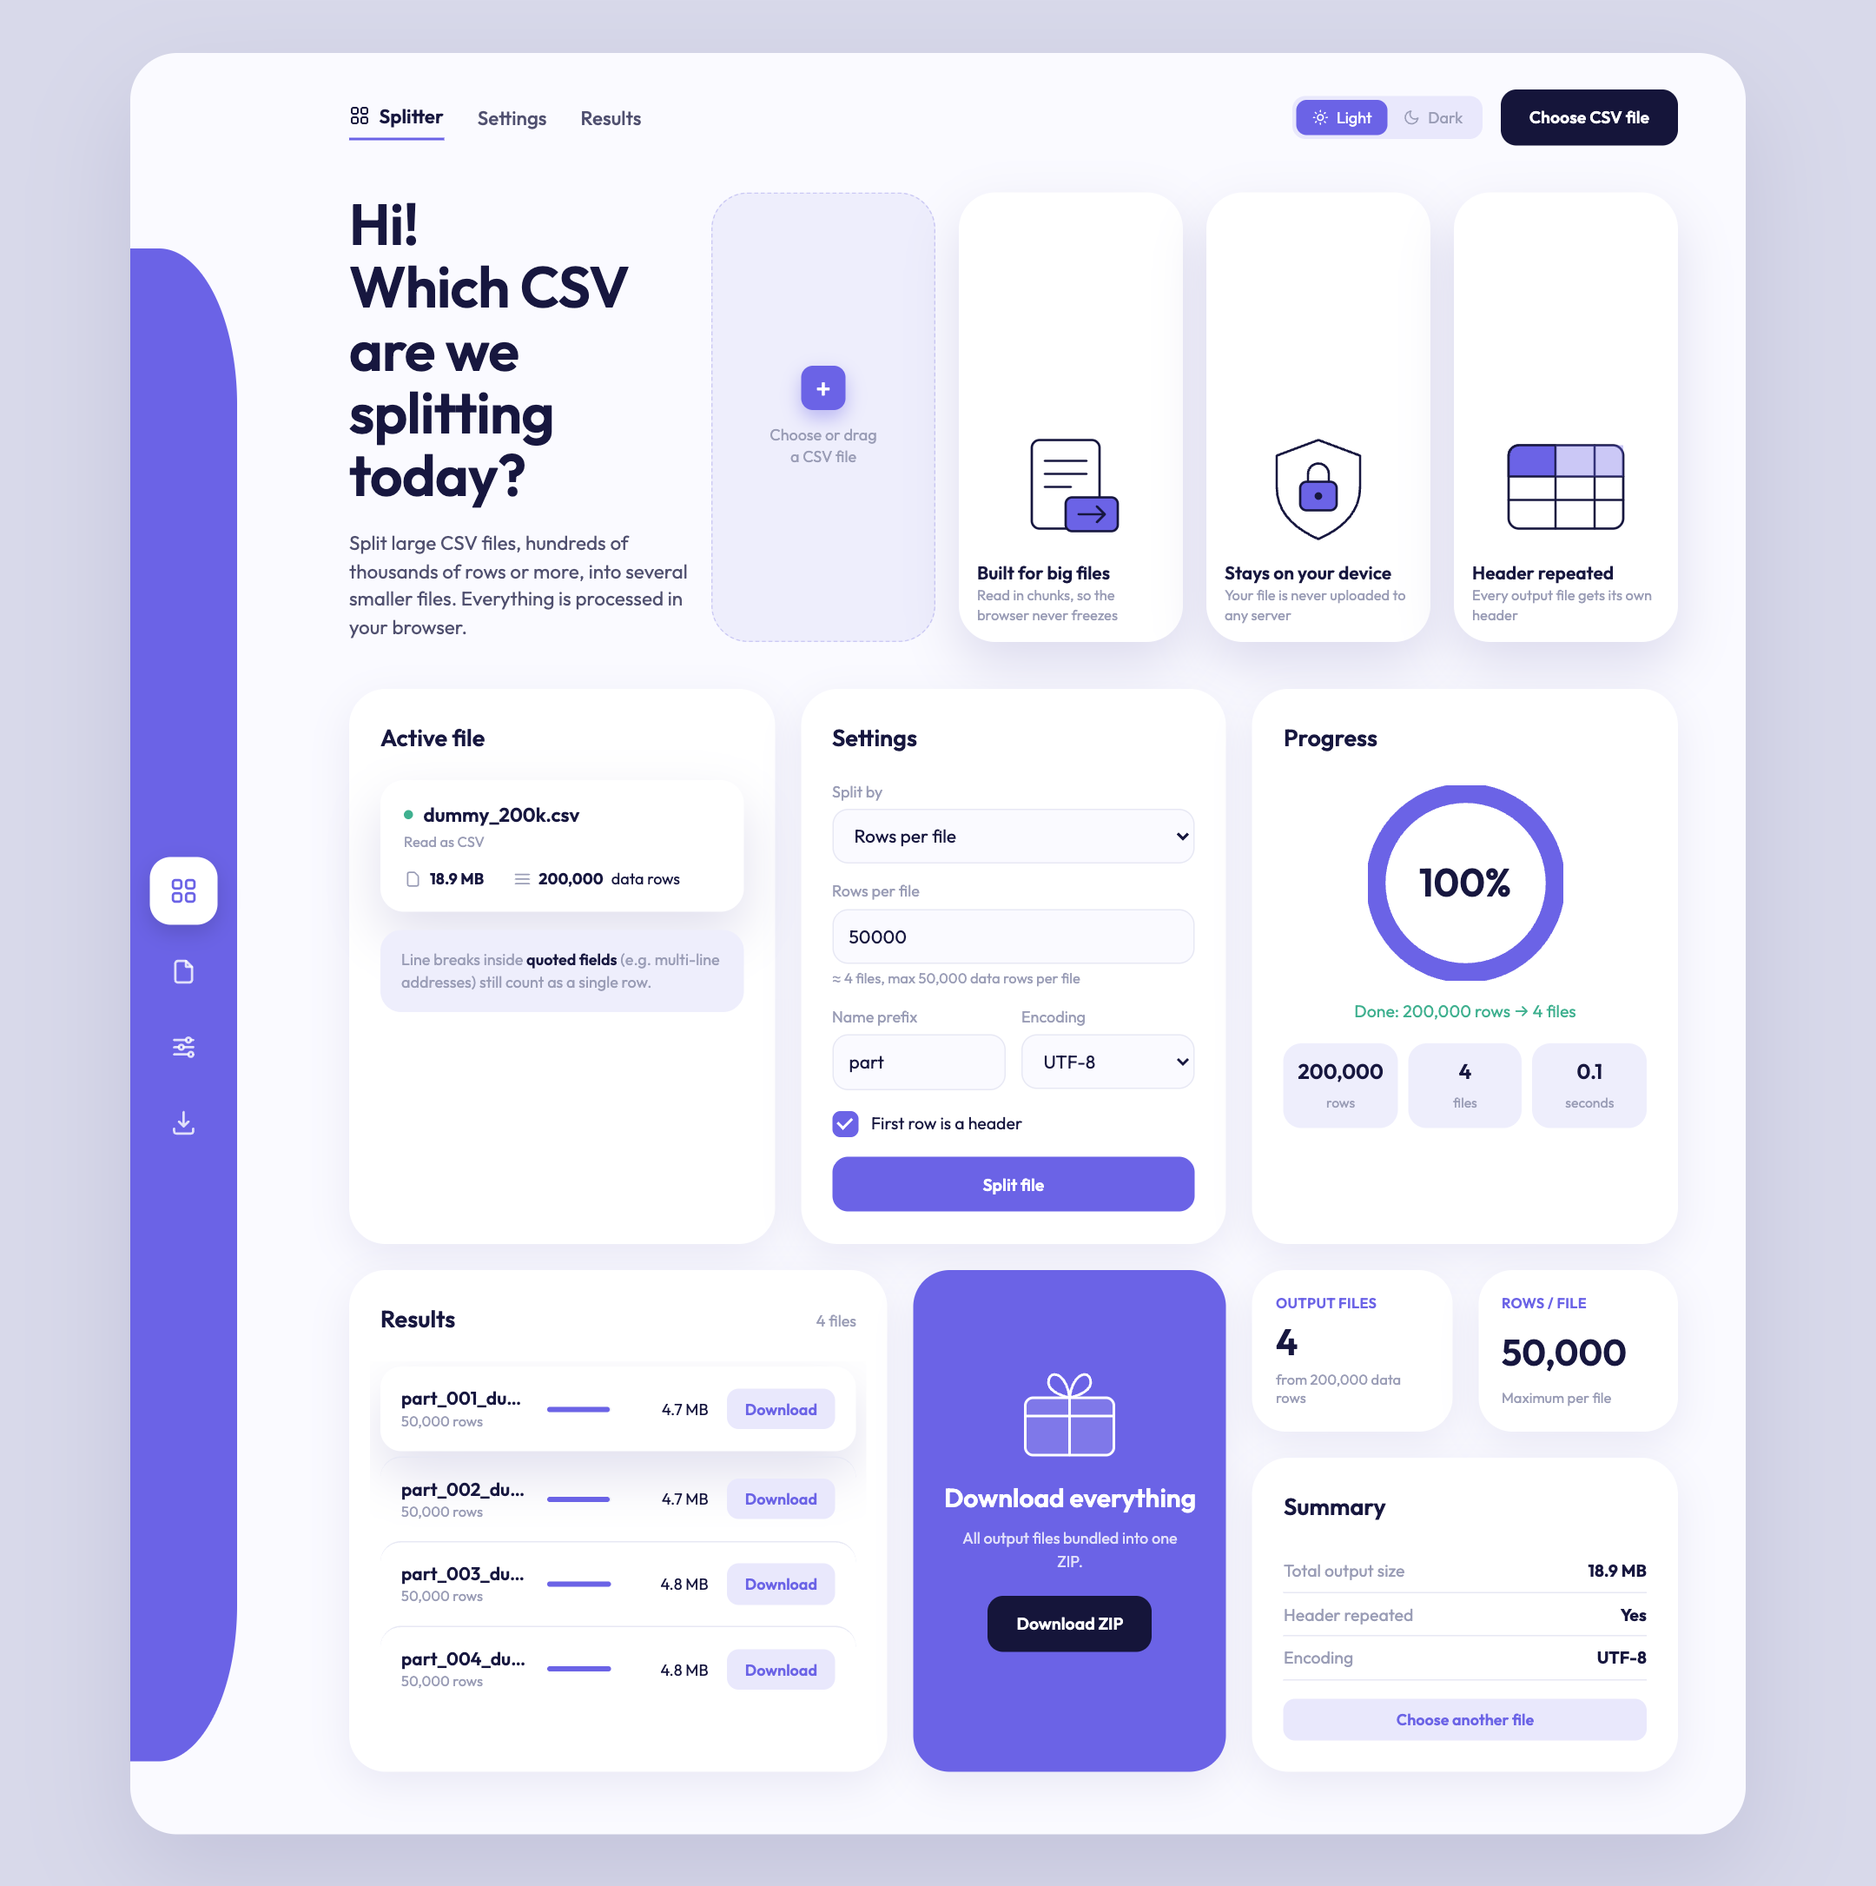
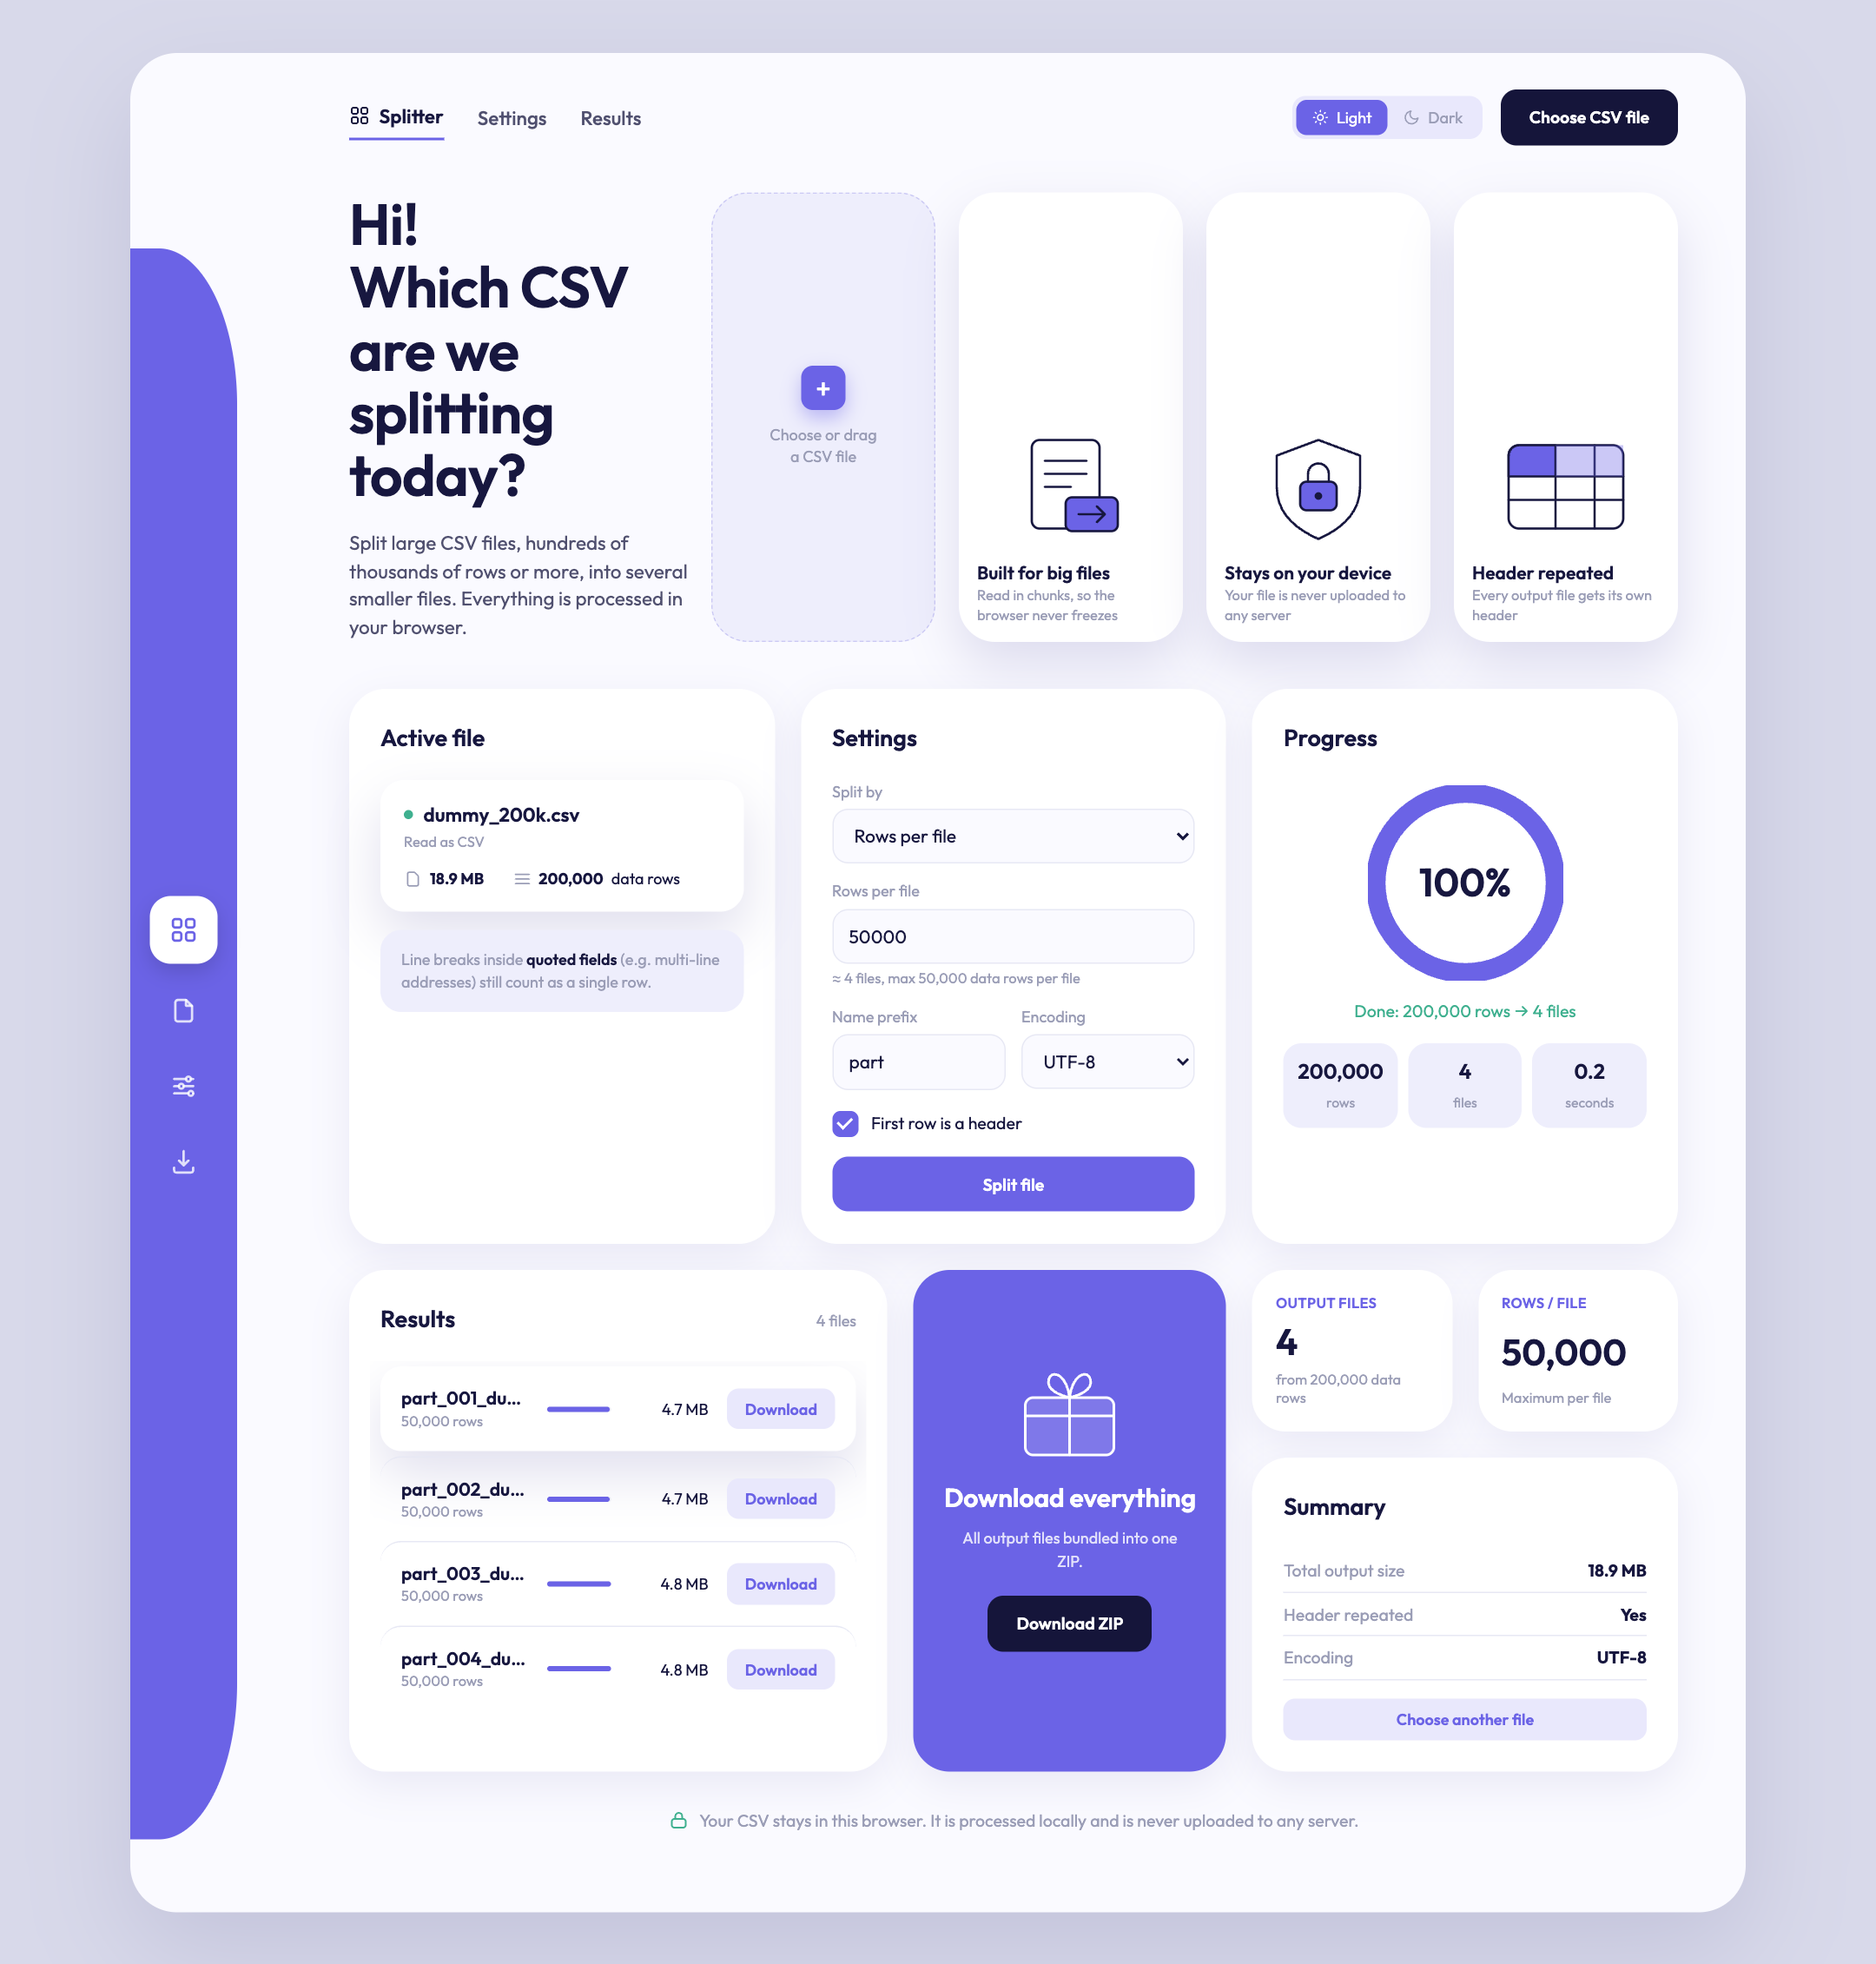
Add privacy notice to UI and README, refresh screenshots

diff --git a/index.html b/index.html
@@ -180,6 +180,8 @@
   .sum .row span:first-child { color: var(--muted); }
   .sum .acts { display: flex; gap: 10px; margin-top: 14px; }
   .sum .acts .btn { flex: 1; }
+  .privacy { display: flex; align-items: center; justify-content: center; gap: 8px; margin-top: 28px; font-size: 13px; color: var(--muted); text-align: center; }
+  .privacy svg { width: 16px; height: 16px; color: var(--ok); flex: none; }
   [hidden] { display: none !important; }
 
   @media (max-width: 1100px) {
@@ -349,6 +351,11 @@
       </div>
     </div>
   </main>
+
+  <p class="privacy">
+    <svg viewBox="0 0 24 24" fill="none" stroke="currentColor" stroke-width="2" stroke-linecap="round" stroke-linejoin="round"><rect x="4" y="11" width="16" height="10" rx="3"/><path d="M8 11V8a4 4 0 0 1 8 0v3"/></svg>
+    <span>Your CSV stays in this browser. It is processed locally and is never uploaded to any server.</span>
+  </p>
 </div>
 
 <script>

diff --git a/README.md b/README.md
@@ -2,14 +2,18 @@
 
 A single-file web tool that **splits large CSV files into several smaller ones**. It handles hundreds of thousands of rows or more (tested with 200,000 rows, ~19 MB). Everything runs **in your browser**: your file is never uploaded anywhere.
 
-![CSV Splitter, light theme](docs/preview-light.png)
+![CSV Splitter, light theme](docs/preview-light.png?v=2)
 
 <details>
 <summary>Dark theme</summary>
 
-![CSV Splitter, dark theme](docs/preview-dark.png)
+![CSV Splitter, dark theme](docs/preview-dark.png?v=2)
 
 </details>
+
+## Privacy
+
+**Your CSV never leaves your browser.** The file is read, split and zipped locally by JavaScript running in the page. It is not uploaded, sent or stored on any server, and the app has no backend at all. You can verify this by opening your browser's developer tools (Network tab) while splitting a file: no request carries your data. The only external request is the font from Google Fonts, which can be removed without affecting functionality.
 
 ## Features
 
